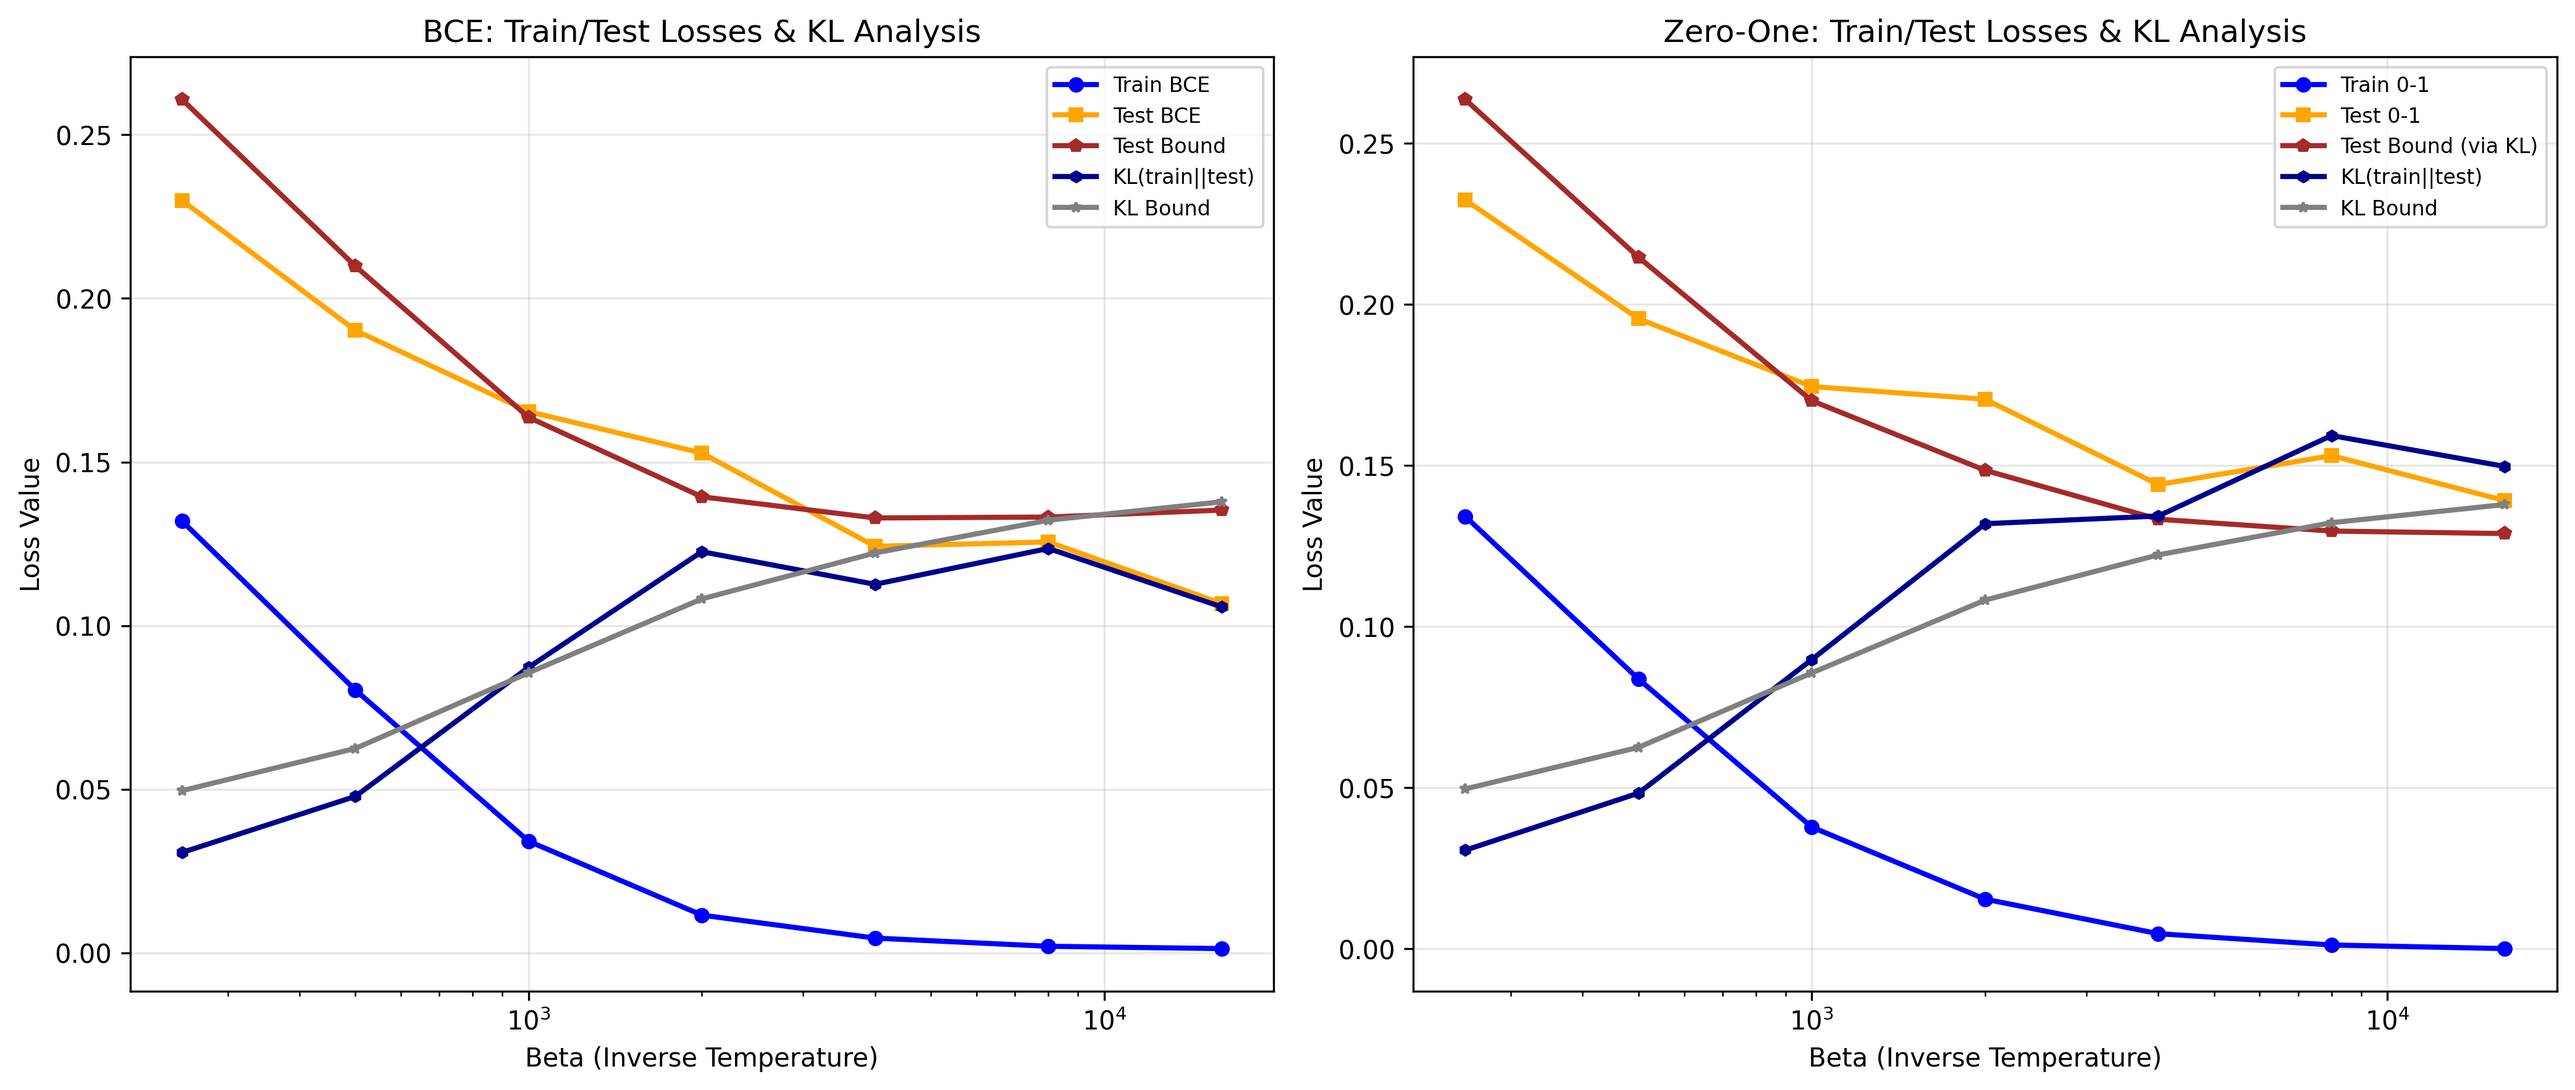
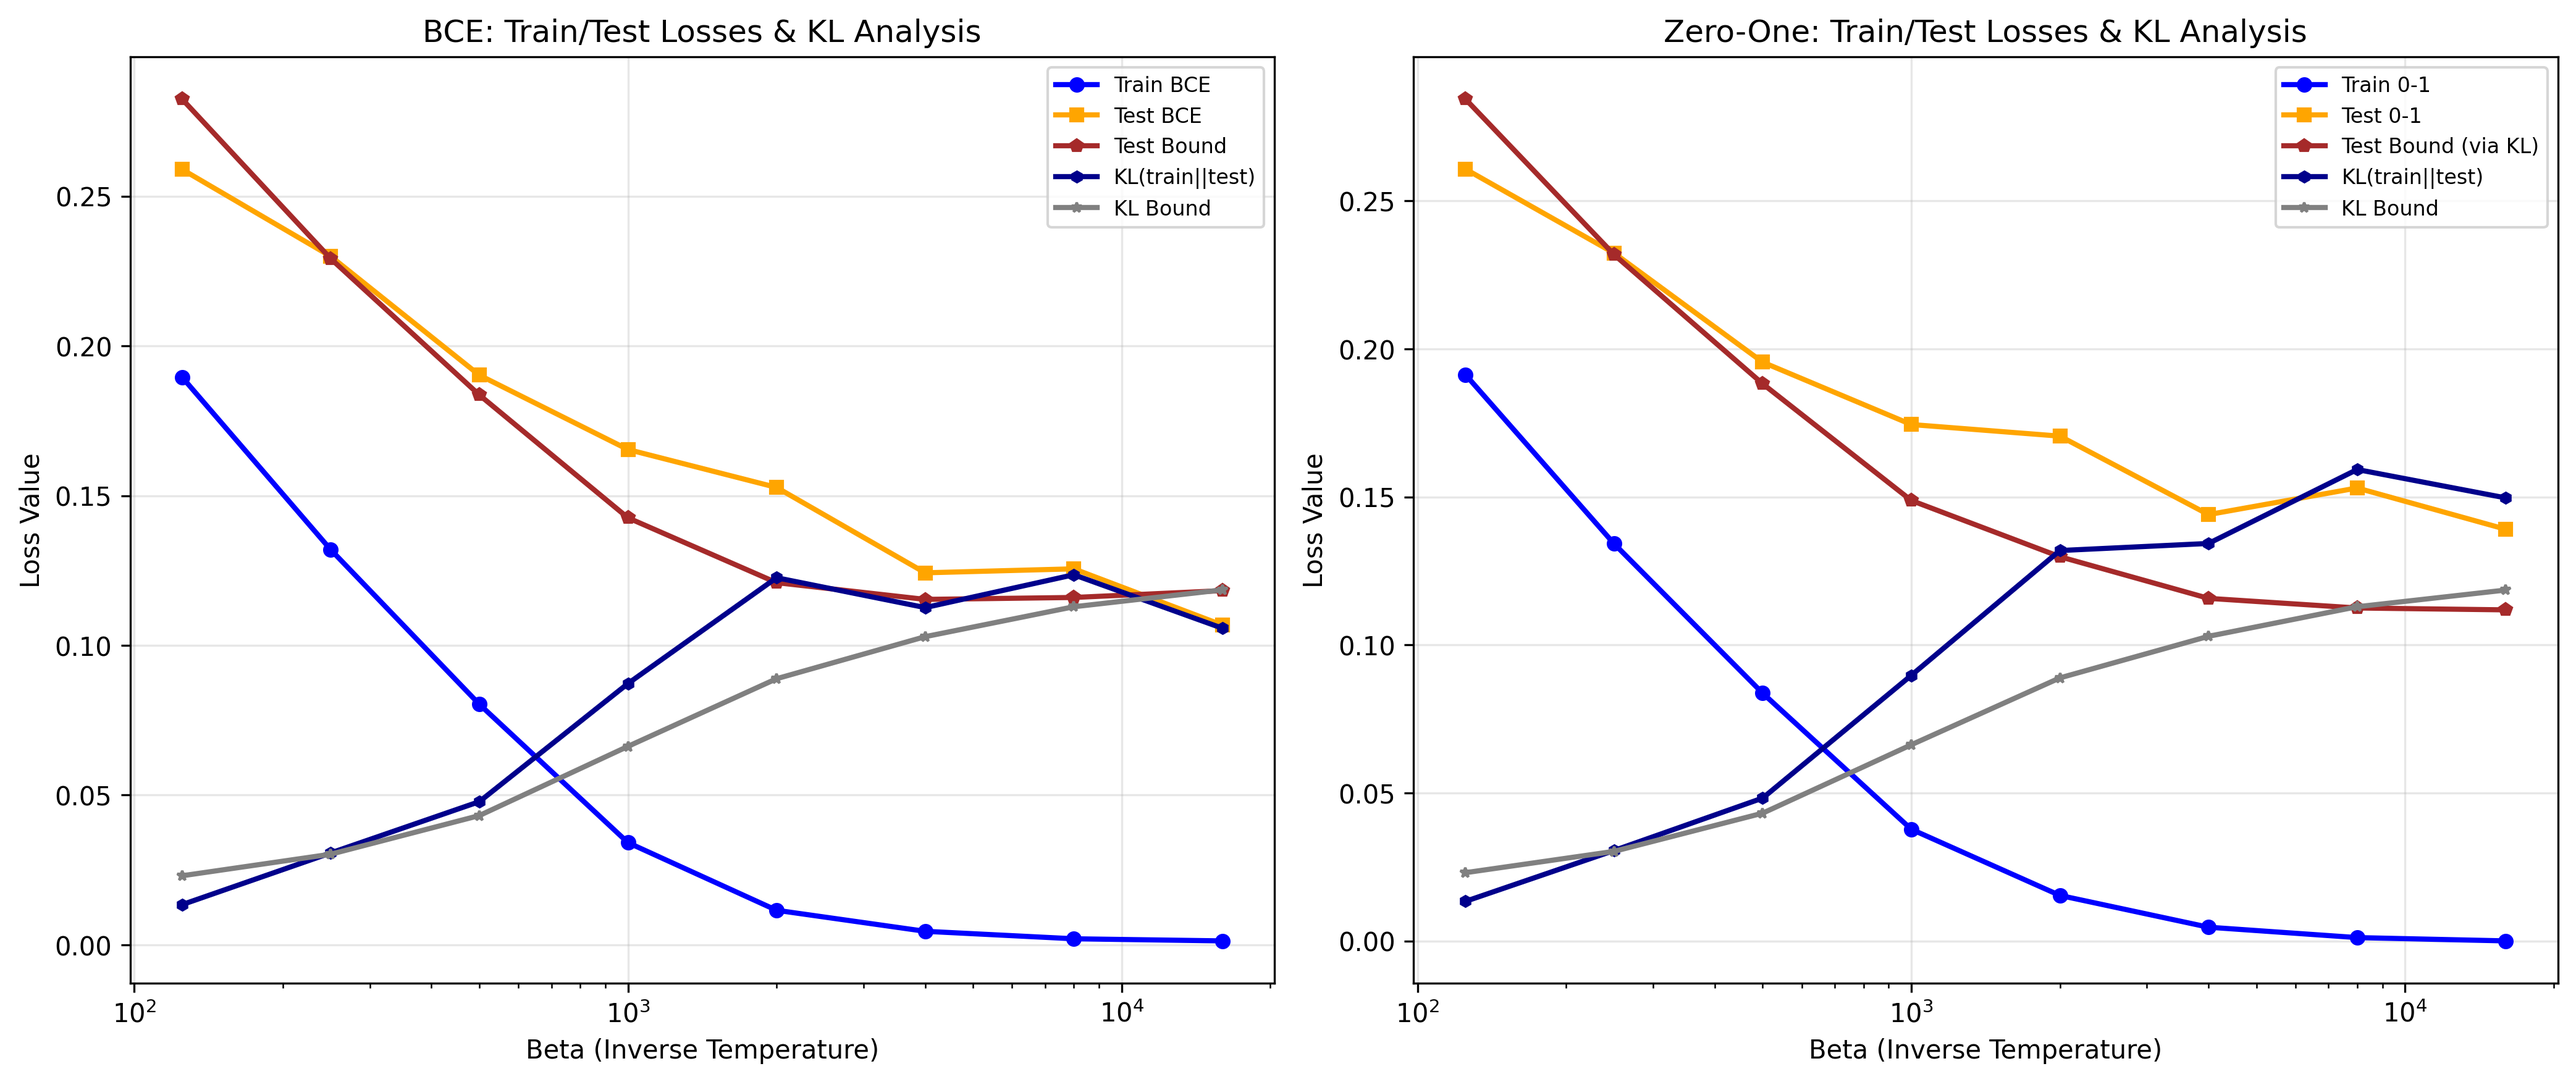
Add SavageLoss implementation and update training script to use it

diff --git a/training.py b/training.py
@@ -13,7 +13,7 @@ import json
 import os
 import csv
 from datetime import datetime
-from losses import BoundedCrossEntropyLoss, ZeroOneLoss, TangentLoss
+from losses import BoundedCrossEntropyLoss, ZeroOneLoss, TangentLoss, SavageLoss
 from models import SynthNN, MNISTNN, initialize_nn_weights_gaussian, MNISTNN2
 from sgld import SGLD
 from dataset import (get_synth_dataloaders, get_synth_dataloaders_random_labels,
@@ -209,7 +209,7 @@ def train_sgld_model(model, train_loader, test_loader,
                      a0: float = 1e-3, b: float = 0.5, sigma_gauss_prior: float = 0.1, 
                      beta: float = 1.0, device: str = 'cpu', dataset_type: str = 'synth',
                      l_max: float = 2.0, collect_output_products: bool = False, moving_average_outputs: bool = False,
-                     alpha: float = 0.1, eta: float = 0.1, eps: float = 1e-3):
+                     alpha: float = 0.1, eta: float = 0.1, eps: float = 1e-7):
     """
     Train the neural network with SGLD and bounded cross entropy loss.
     
@@ -240,7 +240,8 @@ def train_sgld_model(model, train_loader, test_loader,
         device = torch.device(device)
     
     model = model.to(device)
-    criterion = BoundedCrossEntropyLoss(ell_max=l_max)
+    criterion = SavageLoss()
+    # criterion = BoundedCrossEntropyLoss(ell_max=l_max)
     # criterion = TangentLoss()
     # criterion = BCEWithLogitsLoss()  # Use standard BCE for SGLD optimization
     zero_one_criterion = ZeroOneLoss()
@@ -310,7 +311,7 @@ def train_sgld_model(model, train_loader, test_loader,
                 zero_one_loss_total = 0.0
                 for batch_x, batch_y in train_loader:
                     outputs = model_cpu(batch_x)
-                    loss = criterion(outputs, batch_y)
+                    loss = criterion(outputs.squeeze(), batch_y)
                     if using_bce_for_optimization:
                         loss = transform_bce_to_unit_interval(loss, l_max)
                     train_loss_total += loss.item()
@@ -323,7 +324,7 @@ def train_sgld_model(model, train_loader, test_loader,
                 zero_one_loss_total = 0.0
                 for batch_x, batch_y in test_loader:
                     outputs = model_cpu(batch_x)
-                    loss = criterion(outputs, batch_y)
+                    loss = criterion(outputs.squeeze(), batch_y)
                     if using_bce_for_optimization:
                         loss = transform_bce_to_unit_interval(loss, l_max)
                     test_loss_total += loss.item()
@@ -342,7 +343,7 @@ def train_sgld_model(model, train_loader, test_loader,
             EMA_test_zero_one_losses.append(0.5 * EMA_alpha_BCE * test_zero_one_losses[-1] + 0.5 * EMA_alpha_BCE * test_zero_one_losses[-2] + (1 - EMA_alpha_BCE) * EMA_test_zero_one_losses[-1])
             epoch += 1
 
-    while (EMA_train_losses[-1] < EMA_train_losses[-2] or epoch < 1000) and beta > 0.0:
+    while (EMA_train_losses[-1] - EMA_train_losses[-2] < eps or epoch < 1000) and beta > 0.0:
         # Training phase
         model.train()
         train_loss_total = 0.0
@@ -370,7 +371,7 @@ def train_sgld_model(model, train_loader, test_loader,
             # Handle different output shapes for SYNTH vs MNIST
 
             if dataset_type == 'synth':
-                loss_for_optimization = criterion(outputs, batch_y)
+                loss_for_optimization = criterion(outputs.squeeze(), batch_y)
                 if using_bce_for_optimization:
                     loss_for_recording = transform_bce_to_unit_interval(loss_for_optimization, l_max)
                 else:
@@ -378,7 +379,7 @@ def train_sgld_model(model, train_loader, test_loader,
                 predicted = (outputs.squeeze() > 0).float()
                 zero_one_loss = zero_one_criterion(outputs, batch_y)
             else:
-                loss_for_optimization = criterion(outputs, batch_y)
+                loss_for_optimization = criterion(outputs.squeeze(), batch_y)
                 if using_bce_for_optimization:
                     loss_for_recording = transform_bce_to_unit_interval(loss_for_optimization, l_max)
                 else:
@@ -435,7 +436,7 @@ def train_sgld_model(model, train_loader, test_loader,
                     epoch_test_products.extend(batch_products)
                 
                 if dataset_type == 'synth':
-                    loss_for_optimization = criterion(outputs, batch_y)
+                    loss_for_optimization = criterion(outputs.squeeze(), batch_y)
                     if using_bce_for_optimization:
                         loss_for_recording = transform_bce_to_unit_interval(loss_for_optimization, l_max)
                     else:
@@ -443,7 +444,7 @@ def train_sgld_model(model, train_loader, test_loader,
                     predicted = (outputs.squeeze() > 0).float()
                     zero_one_loss = zero_one_criterion(outputs, batch_y)
                 else:
-                    loss_for_optimization = criterion(outputs, batch_y)
+                    loss_for_optimization = criterion(outputs.squeeze(), batch_y)
                     if using_bce_for_optimization:
                         loss_for_recording = transform_bce_to_unit_interval(loss_for_optimization, l_max)
                     else:
@@ -478,7 +479,8 @@ def train_sgld_model(model, train_loader, test_loader,
                   f'Train: {avg_train_loss:.4f} Test: {avg_test_loss:.4f} '
                   f'Train0-1: {avg_train_zero_one:.4f} Test0-1: {avg_test_zero_one:.4f} '
                   f'LR: {current_lr:.2e} '
-                  f'Speed: {epochs_per_second:.1f} ep/s '
+                #   f'Speed: {epochs_per_second:.1f} ep/s '
+                  f'EMA Train BCE Loss: {EMA_train_BCE_losses[-1]:.4f} '
                   f'EMA Train Loss: {EMA_train_losses[-1]:.4f}'
                   )
             

diff --git a/main.py b/main.py
@@ -20,10 +20,10 @@ from bounds import compute_generalization_bound, compute_generalization_errors, 
 from plot_utils import plot_beta_results
 
 # Test mode flag - set to False for full experiment
-TEST_MODE =  True
+TEST_MODE =  False
 
 # Random labels flag - set to True to use random labels instead of linear relationship
-USE_RANDOM_LABELS = False
+USE_RANDOM_LABELS = True
 
 # Dataset selection - set to 'mnist' for MNIST binary classification or 'synth' for synthetic
 DATASET_TYPE = 'mnist'  # 'synth' or 'mnist'
@@ -48,10 +48,10 @@ def main():
 
         if DATASET_TYPE == 'mnist':
             # MNIST needs fewer epochs typically - FAST TEST MODE
-            beta_values = [125]  # Minimal set for testing
+            beta_values = [16000]  # Minimal set for testing
             num_repetitions = 1  # Very fast testing
             # num_epochs = {0: 1, 1: 3000}  # Much fewer epochs
-            a0 = {0: 1e-10, 125: 0.01}
+            a0 = {0: 1e-10, 16000: 0.01}
         else:
             # SYNTH dataset configuration - FAST TEST MODE
             beta_values = [1, 10]  # Minimal set for testing  
@@ -80,33 +80,6 @@ def main():
     print(f"Dataset: {DATASET_TYPE.upper()}")
     print(f"Beta values: {beta_values}")
     print(f"Repetitions per beta: {num_repetitions}")
-    # if isinstance(num_epochs, dict):
-    #     print(f"Epochs per training: Variable by beta")
-    #     for beta in sorted(set(list(num_epochs.keys()) + beta_values)):
-    #         if beta in num_epochs:
-    #             print(f"  Beta {beta}: {num_epochs[beta]} epochs")
-    #         else:
-    #             print(f"  Beta {beta}: {num_epochs.get(beta, 1000)} epochs (default)")
-    # elif callable(num_epochs):
-    #     print(f"Epochs per training: Adaptive function")
-    #     for beta in [0] + beta_values:
-    #         print(f"  Beta {beta}: {num_epochs(beta)} epochs")
-    # else:
-    #     print(f"Epochs per training: {num_epochs}")
-    
-    if isinstance(a0, dict):
-        print(f"Learning rate (a0): Variable by beta")
-        for beta in sorted(set(list(a0.keys()) + beta_values)):
-            if beta in a0:
-                print(f"  Beta {beta}: a0 = {a0[beta]}")
-            else:
-                print(f"  Beta {beta}: a0 = {a0.get(beta, 0.1)} (default)")
-    elif callable(a0):
-        print(f"Learning rate (a0): Adaptive function")
-        for beta in [0] + beta_values:
-            print(f"  Beta {beta}: a0 = {a0(beta)}")
-    else:
-        print(f"Learning rate (a0): {a0}")
     print(f"{'='*70}")
 
     # Create dataloaders once (same dataset for all repetitions and beta values)
@@ -142,7 +115,7 @@ def main():
                 random_seed=42  # Fixed seed for consistent dataset
             )
     
-    print(f"Dataset created with fixed random seed (42) for consistency across all experiments")
+    print(f"Dataset created with fixed random seed (42001) for consistency across all experiments")
 
     
     # Run the experiment with optimizations
@@ -223,11 +196,11 @@ def main():
 
     }
     
-    plot_beta_results(plot_results, n_train, **experiment_params)
+    # plot_beta_results(plot_results, n_train, **experiment_params)
     
     # Also save in the old format for backward compatibility
     print("\n📄 Also saving in legacy format for backward compatibility...")
-    save_results_to_file(plot_results, n_train, **experiment_params)
+    # save_results_to_file(plot_results, n_train, **experiment_params)
     
     # Get the generated filenames for display
     from bounds import generate_filename

diff --git a/sgld.py b/sgld.py
@@ -80,7 +80,6 @@ class SGLD(optimizer.Optimizer):
             if param_group['add_noise']:
                 # Langevin noise scaled by inverse temperature: N(0, 1) / sqrt(lr * beta)
                 # Handle beta = 0 case to avoid division by zero
-                if beta > 0:
                     # Use device-appropriate noise generation for better GPU performance
                     if param.data.is_cuda:
                         langevin_noise = torch.cuda.FloatTensor(param.data.size()).normal_(
@@ -89,13 +88,7 @@ class SGLD(optimizer.Optimizer):
                         langevin_noise = param.data.new(param.data.size()).normal_(
                             mean=0, std=1) / np.sqrt(param_group['lr'] * beta)
                     param.data.add_(0.5*gradient + langevin_noise, alpha=-param_group['lr'])
-                else:
-                    # When beta = 0, no noise is added (pure gradient descent)
-                    if param.data.is_cuda:
-                        langevin_noise = torch.cuda.FloatTensor(param.data.size()).normal_(mean=0, std=1)
-                    else:
-                        langevin_noise = param.data.new(param.data.size()).normal_(mean=0, std=1)
-                    param.data.add_(langevin_noise, alpha=-param_group['lr'])
+                
             else: # don't add noise
                 param.data.add_(0.5*gradient, alpha=-param_group['lr'])
         return loss

diff --git a/read_csv_2_lists.py b/read_csv_2_lists.py
@@ -59,9 +59,6 @@ def read_csv_2_lists(csv_file_path):
                 list_EMA_train_01_losses.append(float(row[EMA_train_01_idx]))
                 list_EMA_test_01_losses.append(float(row[EMA_test_01_idx]))
 
-            elif len(row) > 1 and row[0] == 'Summary:':
-                summary_string = ', '.join(row[1:])
-                print(f"Summary from CSV: {summary_string}")
     print(f"   Loaded {len(beta_values)} rows")
     return beta_values, list_train_BCE_losses, list_test_BCE_losses, list_train_01_losses, list_test_01_losses, list_EMA_train_BCE_losses, list_EMA_test_BCE_losses, list_EMA_train_01_losses, list_EMA_test_01_losses, n_samples
 
@@ -70,9 +67,8 @@ def main():
 
     # TODO: THESE NAMES SHOULD BE CHANGED WITH THE TRUE NAMES OF THE FILES
     # # True label
-    csv_filename = "checkpoint_mnist_random_beta1000-64000_20250914_115609.csv"
+    csv_filename = "checkpoint_mnist_random_beta250-16000_20250912_163239.csv"
     #"checkpoint_mnist_beta250-16000_20250912_192105.csv"
-    #"checkpoint_mnist_random_beta250-16000_20250912_163239.csv"
     #"checkpoint_mnist_beta250-16000_20250911_113247.csv"
     #"checkpoint_mnist_random_beta250-16000_20250911_034846.csv"
     #"checkpoint_mnist_beta250-16000_20250910_233202.csv"

diff --git a/losses.py b/losses.py
@@ -42,7 +42,37 @@ class TangentLoss(nn.Module):
         elif self.reduction == 'sum':
             return loss.sum()
         return loss
-    
+
+class SavageLoss(nn.Module):
+    """
+    Savage loss: phi(v) = 1/(1 + exp(v))^2
+    where v = y * logits, with y in {-1, +1}
+    """
+
+    def __init__(self, reduction='mean'):
+        super().__init__()
+        assert reduction in ('none', 'mean', 'sum')
+        self.reduction = reduction
+
+    def forward(self, logits: torch.Tensor, targets: torch.Tensor) -> torch.Tensor:
+        """
+        logits: Tensor of shape (N,) or (N, 1)
+        targets: Tensor of shape (N,) with values {+1, -1}
+        """
+
+        # Ensure targets are {-1, +1}
+        y = targets.float()
+        if y.min() == 0:
+            y = y * 2 - 1
+
+        v = logits.flatten() * y
+        loss = 1 / (1 + torch.exp(v)).pow(2)
+
+        if self.reduction == 'mean':
+            return loss.mean()
+        elif self.reduction == 'sum':
+            return loss.sum()
+        return loss
 class BoundedCrossEntropyLoss(nn.Module):
     def __init__(self, ell_max=4.0):
         super(BoundedCrossEntropyLoss, self).__init__()
